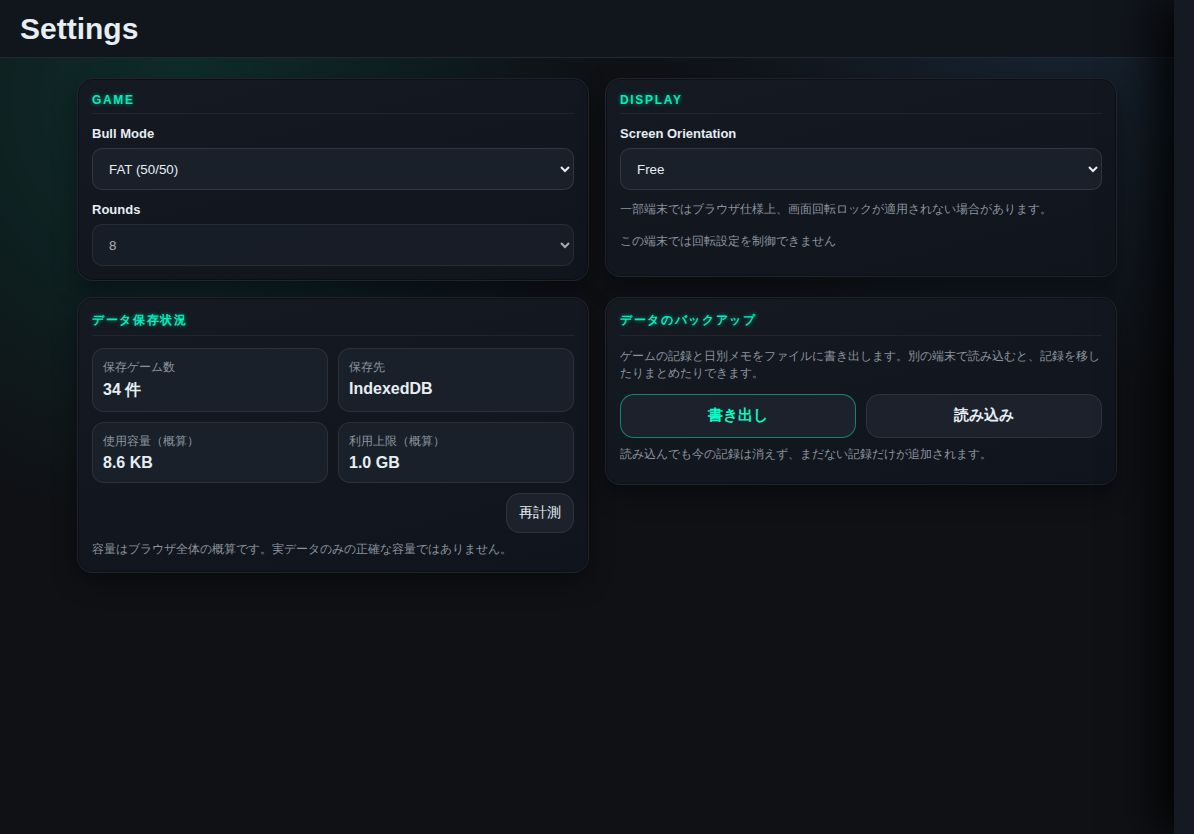
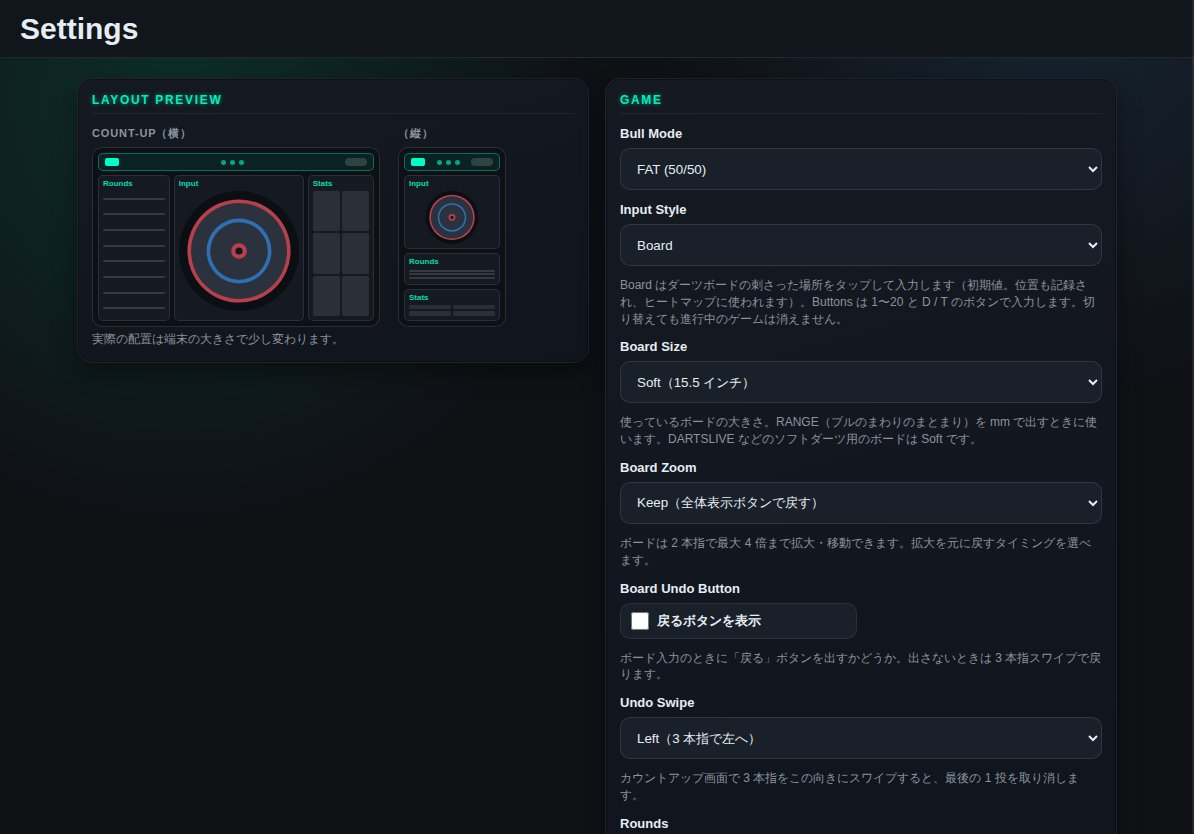
設定画面の Layout Preview を半分の幅にし、データのタブの図を外す
横向きでは左の列（Game・Display の 2 段分）に置き、右の欄をスクロールしている間も上に止めて見せる。
データ画面のタブの並びの図は外した。設計書の画面画像を撮り直した。

Claude-Session: https://claude.ai/code/session_01T46tqjmmnQtBio5EEUgC8y

diff --git a/js/ui/settings.js b/js/ui/settings.js
@@ -354,14 +354,13 @@ function initBackupControls() {
 // ===============================
 // ===== 画面の配置のプレビュー ====
 // ===============================
-// カウントアップ画面（横向き・縦向き）とデータ画面のタブの並びを、今のフォームの値で簡単な図にする。
+// カウントアップ画面（横向き・縦向き）の並びを、今のフォームの値で簡単な図にする。
 // 実際の画面の目安（端末の大きさで細かな配置は変わる）
 function getPreviewSettingsFromForm() {
   return {
     inputMode: document.getElementById("inputModeSetting")?.value || "board",
     boardUndoButton: !!document.getElementById("boardUndoButtonSetting")?.checked,
-    gamePanels: readTogglesFromForm(GAME_PANEL_TOGGLES),
-    dataTabs: readTogglesFromForm(DATA_TAB_TOGGLES)
+    gamePanels: readTogglesFromForm(GAME_PANEL_TOGGLES)
   }
 }
 
@@ -440,12 +439,6 @@ function renderLayoutPreview(flashTarget = null) {
 
   const settings = getPreviewSettingsFromForm()
 
-  const tabNames = { analysis: "Analysis", day: "Day", week: "Week", month: "Month", year: "Year" }
-  const tabs = `<span class="pv-tab active">Game</span>` +
-    Object.keys(tabNames)
-      .map(key => `<span class="pv-tab${settings.dataTabs[key] ? "" : " off"}">${tabNames[key]}</span>`)
-      .join("")
-
   box.innerHTML = `
     <figure class="pv-figure" data-preview="game">
       <figcaption class="pv-caption">COUNT-UP（横）</figcaption>
@@ -455,10 +448,6 @@ function renderLayoutPreview(flashTarget = null) {
       <figcaption class="pv-caption">（縦）</figcaption>
       ${renderPreviewScreen(settings, false)}
     </figure>
-    <figure class="pv-figure" data-preview="data">
-      <figcaption class="pv-caption">DATA のタブ</figcaption>
-      <div class="pv-tabs">${tabs}</div>
-    </figure>
   `
 
   const note = document.getElementById("layoutPreviewNote")
@@ -466,7 +455,7 @@ function renderLayoutPreview(flashTarget = null) {
 
   // 変えた設定に関係するプレビューを少し光らせる
   if (flashTarget) {
-    box.querySelectorAll(`[data-preview="${flashTarget}"] .pv-screen, [data-preview="${flashTarget}"] .pv-tabs`)
+    box.querySelectorAll(`[data-preview="${flashTarget}"] .pv-screen`)
       .forEach(el => el.classList.add("pv-flash"))
   }
 }
@@ -493,7 +482,6 @@ function setupLayoutPreview() {
     ["boardUndoButtonSetting", "game"]
   ]
     .concat(Object.values(GAME_PANEL_TOGGLES).map(id => [id, "game"]))
-    .concat(Object.values(DATA_TAB_TOGGLES).map(id => [id, "data"]))
 
   watch.forEach(([id, target]) => {
     const input = document.getElementById(id)

diff --git a/settings.html b/settings.html
@@ -273,8 +273,20 @@
       }
 
       /* ===== Layout Preview（画面の配置の目安） ===== */
+      /* ほかの設定の欄と同じ 1 列分の幅（横幅いっぱいにはしない） */
       .layout-preview-panel {
-        grid-column: 1 / -1;
+        min-width: 0;
+      }
+
+      /* 横向き：左の列で Game・Display の 2 段分を受け持ち、右の欄をスクロールしている間も上に止めて見せる */
+      .landscape .layout-preview-panel,
+      .desktop .layout-preview-panel {
+        grid-row: 1 / span 2;
+        align-self: start;
+        position: -webkit-sticky;
+        position: sticky;
+        top: 0;
+        z-index: 1;
       }
 
       .layout-preview {
@@ -487,37 +499,6 @@
       .pv-corner.tr { top: 10%; right: 0; }
       .pv-corner.br { bottom: 0; right: 0; }
 
-      .pv-tabs {
-        display: flex;
-        flex-wrap: wrap;
-        gap: 4px;
-        max-width: 300px;
-        padding: 6px;
-        border-radius: 10px;
-        border: 1px solid rgba(255, 255, 255, 0.12);
-        background: #0d1016;
-        transition: box-shadow 0.2s ease;
-      }
-
-      .pv-tab {
-        padding: 3px 8px;
-        border-radius: 999px;
-        border: 1px solid rgba(255, 255, 255, 0.18);
-        color: #cbd5e1;
-        font-size: 10px;
-        font-weight: 700;
-      }
-
-      .pv-tab.active {
-        border-color: var(--accent);
-        color: var(--accent);
-      }
-
-      .pv-tab.off {
-        border-style: dashed;
-        color: rgba(255, 255, 255, 0.25);
-        text-decoration: line-through;
-      }
     </style>
   </head>
 

diff --git a/js/ui/news.js b/js/ui/news.js
@@ -249,6 +249,11 @@ const INFO_CONTENT = {
       date: "2026/10/08",
       badge: "UI",
       text: "データ画面にトップを追加しました。開くと成績のまとめと、見る画面（Games / Analysis / Day / Week / Month / Year）を選ぶカード、最近のゲームが出ます。各画面からは左上の「‹ Top」で戻れます。"
+    },
+    {
+      date: "2026/10/08",
+      badge: "UI",
+      text: "設定画面の Layout Preview を半分の幅にし、設定をスクロールしている間も見えるようにしました。データ画面のタブの図は外しました。"
     }
   ],
   notice: [

diff --git a/sw.js b/sw.js
@@ -1,5 +1,5 @@
-const APP_CACHE = "darts-app-v77"
-const RUNTIME_CACHE = "darts-runtime-v77"
+const APP_CACHE = "darts-app-v78"
+const RUNTIME_CACHE = "darts-runtime-v78"
 
 const PRECACHE_URLS = [
   "./",
